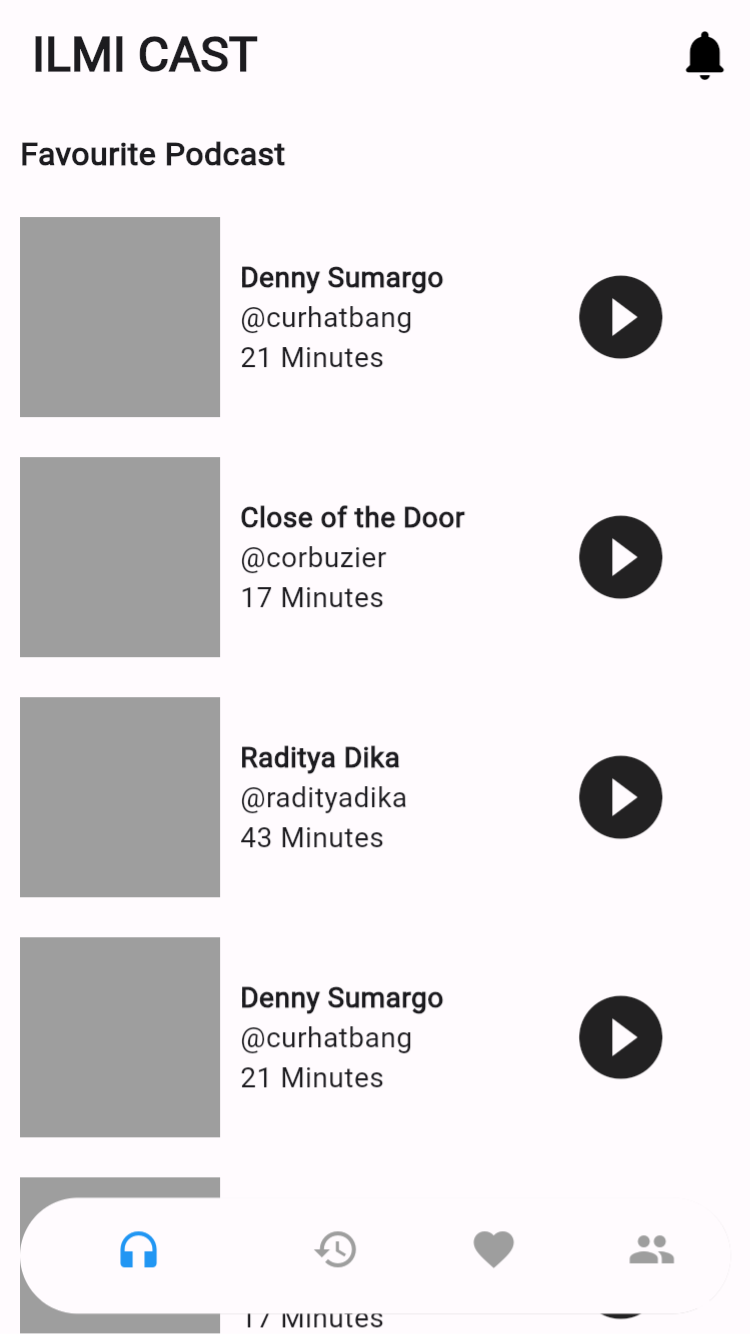
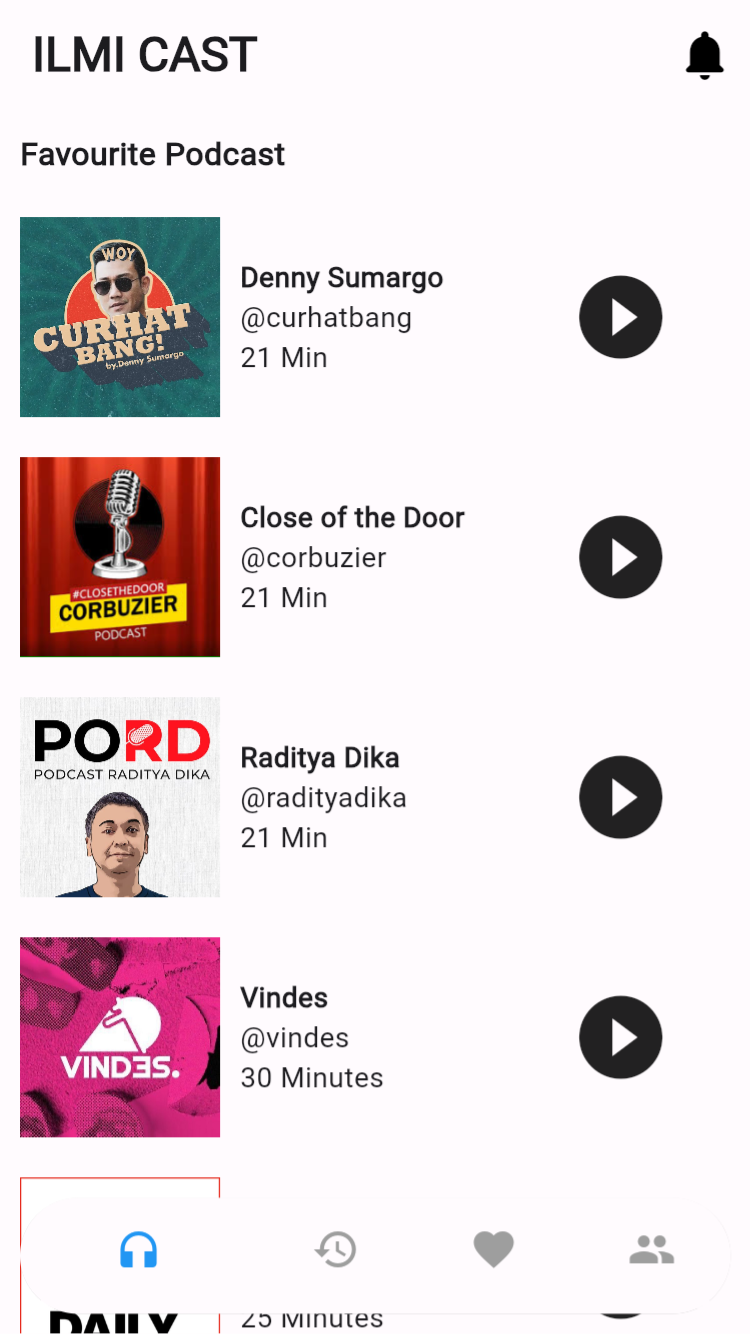
add image

diff --git a/lib/main.dart b/lib/main.dart
@@ -34,7 +34,7 @@ class _MyHomePageState extends State<MyHomePage> {
   Widget build(BuildContext context) {
     return Stack(
       children: [
-      _favorite(title: widget.title),
+      _home(title: widget.title),
       Positioned(
         bottom: 0,
         left: 0,
@@ -111,32 +111,38 @@ Widget _favorite({required String title}){
                 _buildListItem(
                   title: 'Denny Sumargo',
                   username: '@curhatbang',
-                  duration: '21 Minutes',
+                  duration: '21 Min',
+                  image:'images/dennysumargo.jpg'
                 ),
                 _buildListItem(
                   title: 'Close of the Door',
                   username: '@corbuzier',
-                  duration: '17 Minutes',
+                  duration: '21 Min',
+                  image:'images/cotd.jpeg'
                 ),
                 _buildListItem(
                   title: 'Raditya Dika',
                   username: '@radityadika',
-                  duration: '43 Minutes',
+                  duration: '21 Min',
+                  image:'images/raditya.jpg'
                 ),
                 _buildListItem(
-                  title: 'Denny Sumargo',
-                  username: '@curhatbang',
-                  duration: '21 Minutes',
+                  title: 'Vindes',
+                  username: '@vindes',
+                  duration: '30 Minutes',
+                  image:'images/vindes.jpg'
                 ),
                 _buildListItem(
-                  title: 'Close of the Door',
-                  username: '@corbuzier',
-                  duration: '17 Minutes',
+                  title: 'TED',
+                  username: '@tedtalksdaily',
+                  duration: '25 Minutes',
+                  image:'images/TED.png'
                 ),
                 _buildListItem(
-                  title: 'Raditya Dika',
-                  username: '@radityadika',
-                  duration: '43 Minutes',
+                  title: 'Makna Talks',
+                  username: '@maknatalks',
+                  duration: '12 Minutes',
+                  image:'images/maknatalks.jpeg'
                 ),
               ],
             ),
@@ -194,9 +200,9 @@ Widget _home({required String title}){
               child: ListView(
                 scrollDirection: Axis.horizontal,
                 children: <Widget>[
-                  _buildListPromoted(),
-                  _buildListPromoted(),
-                  _buildListPromoted(),
+                  _buildListPromoted(image: 'images/promoted1.png'),
+                  _buildListPromoted(image: 'images/promoted2.png'),
+                  _buildListPromoted(image: 'images/promoted3.png'),
                 ],
               ),
             ),
@@ -205,20 +211,23 @@ Widget _home({required String title}){
             // Trending Podcasts List
             Column(
               children: <Widget>[
-                _buildListItem(
+               _buildListItem(
                   title: 'Denny Sumargo',
                   username: '@curhatbang',
-                  duration: '21 Minutes',
+                  duration: '42 Minutes',
+                  image:'images/dennysumargo.jpg'
                 ),
                 _buildListItem(
                   title: 'Close of the Door',
                   username: '@corbuzier',
-                  duration: '17 Minutes',
+                  duration: '43 Minutes',
+                  image:'images/cotd.jpeg'
                 ),
                 _buildListItem(
                   title: 'Raditya Dika',
                   username: '@radityadika',
-                  duration: '43 Minutes',
+                  duration: '70 Minutes',
+                  image:'images/raditya.jpg'
                 ),
               ],
             ),
@@ -230,17 +239,20 @@ Widget _home({required String title}){
                 _buildListItem(
                   title: 'Denny Sumargo',
                   username: '@curhatbang',
-                  duration: '21 Min',
+                  duration: '42 Minutes',
+                  image:'images/dennysumargo.jpg'
                 ),
                 _buildListItem(
-                  title: 'Close of the Door',
-                  username: '@corbuzier',
-                  duration: '21 Min',
+                  title: 'Vindes',
+                  username: '@vindes',
+                  duration: '30 Minutes',
+                  image:'images/vindes.jpg'
                 ),
                 _buildListItem(
                   title: 'Raditya Dika',
                   username: '@radityadika',
-                  duration: '21 Min',
+                  duration: '70 Minutes',
+                  image:'images/raditya.jpg'
                 ),
               ],
             ),
@@ -252,9 +264,9 @@ Widget _home({required String title}){
               child: ListView(
                 scrollDirection: Axis.horizontal,
                 children: <Widget>[
-                  _buildListCategory(title: 'Music'),
-                  _buildListCategory(title: 'Artist'),
-                  _buildListCategory(title: 'News'),
+                  _buildListCategory(title: 'Music' , image: 'images/category_music.jpg'),
+                  _buildListCategory(title: 'Artist', image: 'images/category_artist.jpg'),
+                  _buildListCategory(title: 'News', image: 'images/category_news.png'),
                 ],
               ),
             ),
@@ -262,6 +274,8 @@ Widget _home({required String title}){
           ],
           ))));
 }
+
+
 
 Widget _titleText({required String title}){
   return Align(
@@ -273,17 +287,17 @@ Widget _titleText({required String title}){
       );
 }
 
-Widget _buildListPromoted(){
+Widget _buildListPromoted({required String image}){
   return Padding(
               padding: const EdgeInsets.only(right: 10 ,left: 10),
               child: Container(
                 width: 300,
-                color: Colors.grey,
+                child: Image.asset(image),
               ),
             );
 }
 
-Widget _buildListCategory({required String title}){
+Widget _buildListCategory({required String title, required String image}){
   return Padding(
               padding: const EdgeInsets.only(right: 10 ,left: 10),
               child: Column(
@@ -291,7 +305,7 @@ Widget _buildListCategory({required String title}){
                   Container(
                     width: 200,
                     height: 120,
-                    color: Colors.grey,
+                    child: Image.asset(image),
                   ),
                   Container(
                     padding: const EdgeInsets.all(10.0),
@@ -302,17 +316,17 @@ Widget _buildListCategory({required String title}){
             );
 }
 
-Widget _buildListItem({required String title, required String username, required String duration}) {
+Widget _buildListItem({required String title, required String username, required String duration, required String image}) {
   return Row(
     mainAxisAlignment: MainAxisAlignment.spaceBetween,
     children: <Widget>[
       // Image
-      const Padding(
+      Padding(
         padding: EdgeInsets.all(10),
         child: SizedBox(
           width: 100,
           height: 100,
-          child: ColoredBox(color: Colors.grey),
+          child: Image.asset(image)
         ),
       ),
       // Title n Desc
